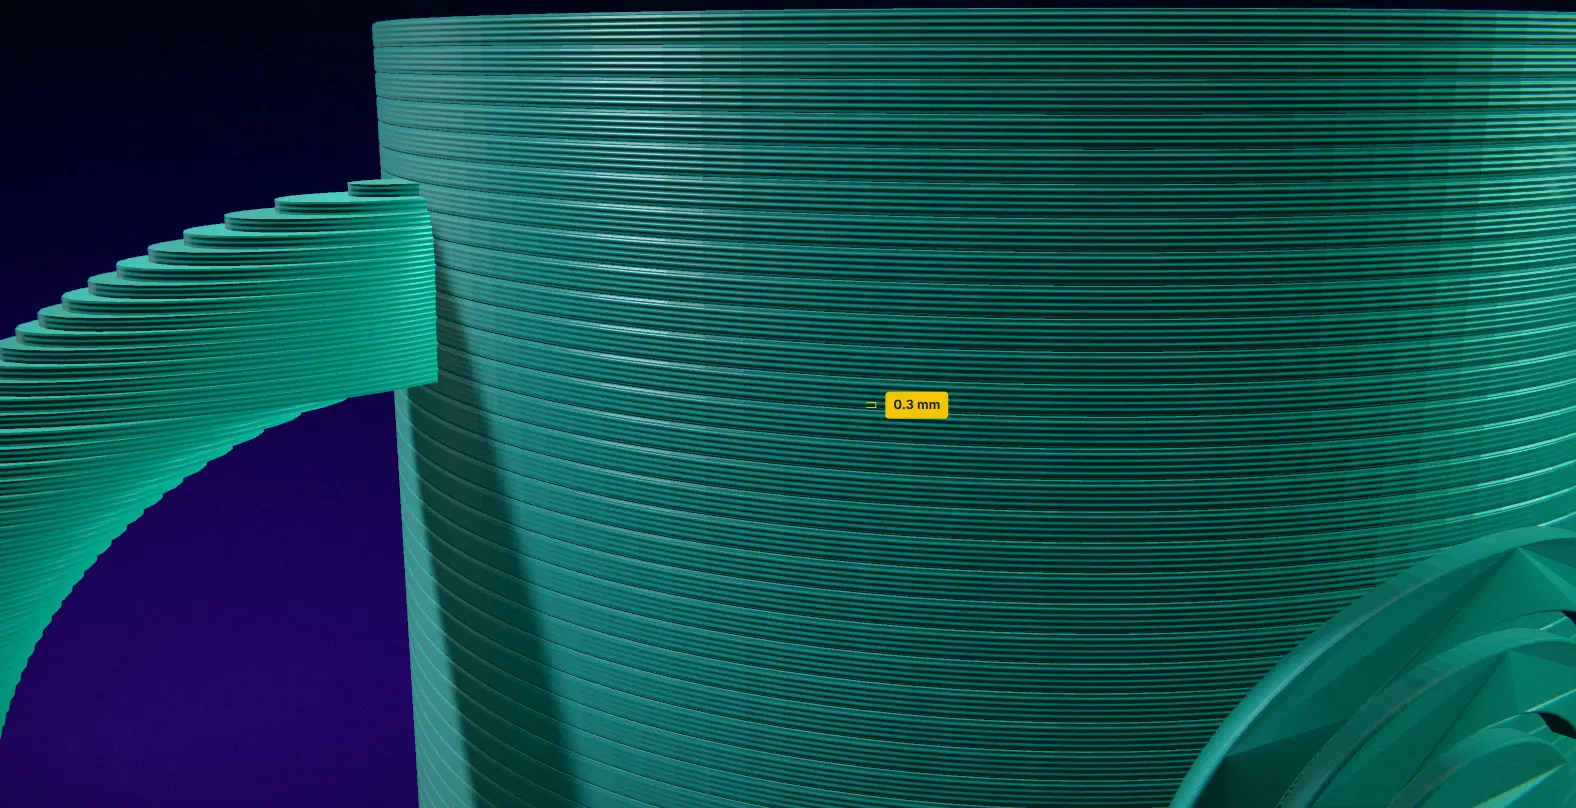
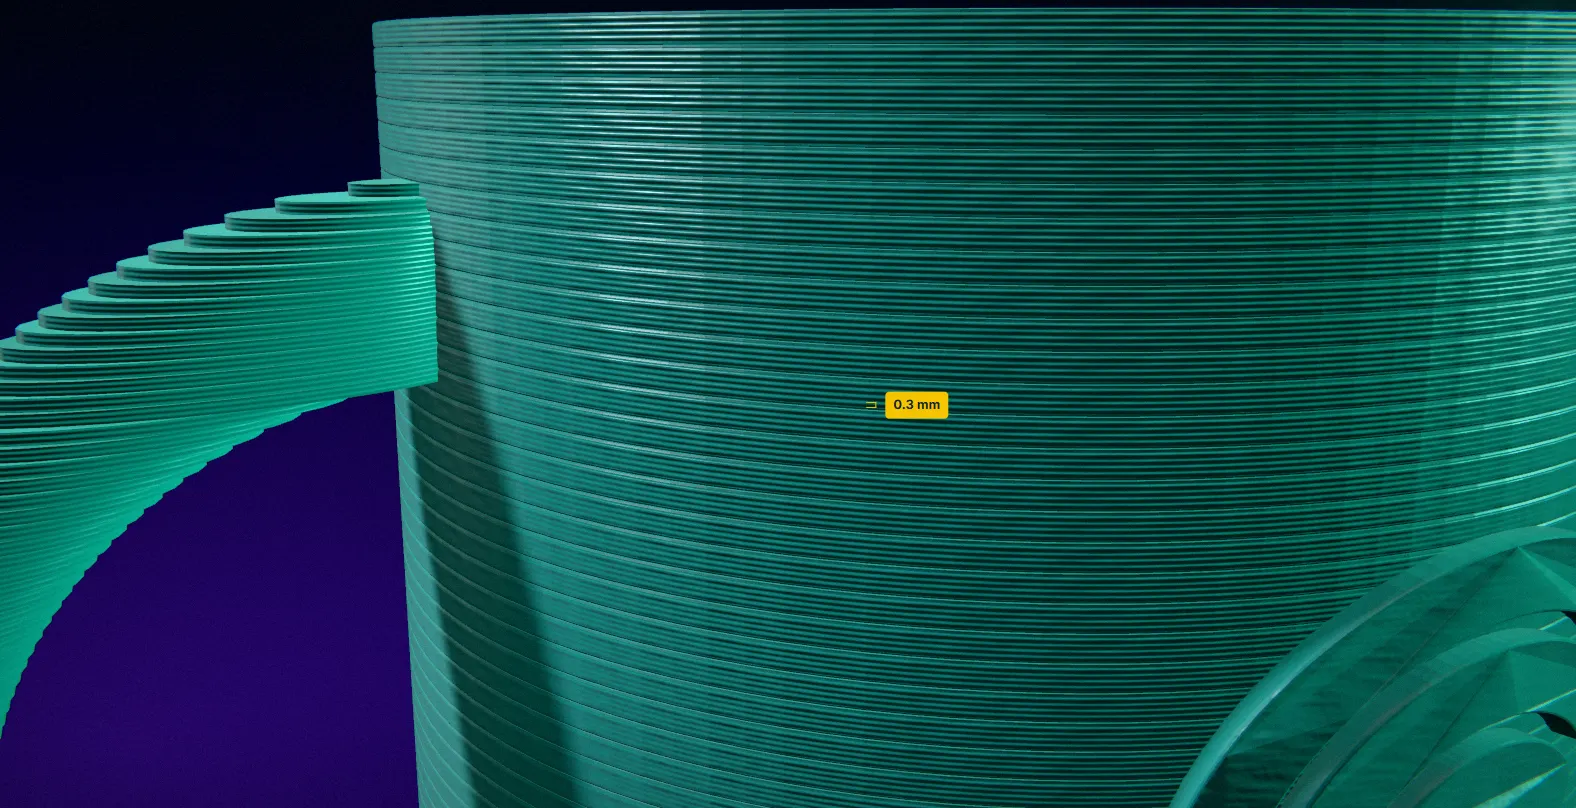
Give the mug the fine grain of a printed surface

Changed region(s): [[0.9327, 0.0, 1.0, 0.3094], [0.4042, 0.1547, 0.4353, 0.2475], [0.4042, 0.0619, 0.4353, 0.1238]]

diff --git a/src/scene/printJob.ts b/src/scene/printJob.ts
@@ -169,14 +169,68 @@ function addLooks(material: THREE.MeshStandardMaterial, uniforms: Record<"uTherm
   };
 }
 
+/**
+ * The printed plastic's surface, made in code: a fine grain that runs along
+ * the layers (the nozzle's path) with tiny specks across it, as a normal map
+ * and a roughness map, so the mug's sheen breaks up as a real print's does.
+ */
+function printedSurface() {
+  const N = 128;
+  const rand = (i: number) => {
+    const x = Math.sin(i * 12.9898) * 43758.5453;
+    return x - Math.floor(x);
+  };
+  const height = new Float32Array(N * N);
+  for (let y = 0; y < N; y++) {
+    // Along the layer the grain changes slowly; across it quickly.
+    const row = rand(y * 7.1) * 0.6;
+    for (let x = 0; x < N; x++) {
+      const along = Math.sin((x / N) * Math.PI * 2 * 6 + row * 9) * 0.25;
+      height[y * N + x] = row + along + rand(y * N + x) * 0.18;
+    }
+  }
+  const h = (x: number, y: number) => height[((y + N) % N) * N + ((x + N) % N)];
+  const make = (paint: (d: Uint8ClampedArray, i: number, x: number, y: number) => void) => {
+    const canvas = document.createElement("canvas");
+    canvas.width = canvas.height = N;
+    const c = canvas.getContext("2d")!;
+    const image = c.createImageData(N, N);
+    for (let y = 0; y < N; y++) for (let x = 0; x < N; x++) paint(image.data, (y * N + x) * 4, x, y);
+    c.putImageData(image, 0, 0);
+    const texture = new THREE.CanvasTexture(canvas);
+    texture.wrapS = texture.wrapT = THREE.RepeatWrapping;
+    // The wall's UVs are in cm: one tile every 2 cm.
+    texture.repeat.set(0.5, 0.5);
+    return texture;
+  };
+  const normalMap = make((d, i, x, y) => {
+    const dx = (h(x + 1, y) - h(x - 1, y)) * 1.6;
+    const dy = (h(x, y + 1) - h(x, y - 1)) * 1.6;
+    const len = Math.hypot(dx, dy, 1);
+    d[i] = (-dx / len) * 127 + 128;
+    d[i + 1] = (dy / len) * 127 + 128;
+    d[i + 2] = (1 / len) * 127 + 128;
+    d[i + 3] = 255;
+  });
+  const roughnessMap = make((d, i, x, y) => {
+    d[i] = d[i + 1] = d[i + 2] = 200 + (h(x, y) - 0.5) * 80;
+    d[i + 3] = 255;
+  });
+  return { normalMap, roughnessMap };
+}
+
 export function createPrintJob(bedSurface: THREE.Object3D, quality: QualityLevel): PrintJob {
   const object = new THREE.Group();
   bedSurface.add(object);
 
   // PETG: a satin plastic with a thin glossy skin and a soft sheen along its layers.
+  const surface = printedSurface();
   const filament = new THREE.MeshPhysicalMaterial({
     color: 0x2aa898,
-    roughness: 0.38,
+    normalMap: surface.normalMap,
+    normalScale: new THREE.Vector2(0.12, 0.12),
+    roughnessMap: surface.roughnessMap,
+    roughness: 0.48,
     metalness: 0,
     clearcoat: quality === 2 ? 0.45 : 0.25,
     clearcoatRoughness: 0.32,
@@ -380,6 +434,8 @@ export function createPrintJob(bedSurface: THREE.Object3D, quality: QualityLevel
     dispose() {
       [ring, disc, block, coffeeShape, logoShape, previewGeometry].forEach((g) => g.dispose());
       [filament, current, coffeeMaterial, logoMaterial, previewMaterial].forEach((mat) => mat.dispose());
+      surface.normalMap.dispose();
+      surface.roughnessMap.dispose();
       [walls, bases, handle].forEach((mesh) => mesh.dispose());
     },
   };

diff --git a/CHANGELOG.md b/CHANGELOG.md
@@ -7,6 +7,11 @@ of this repository: https://github.com/laroca00/3dcare/commits/main
 
 ## 2026-10-24
 
+### A printed surface on the mug
+- The mug's plastic has the fine grain of a real print: a texture that runs
+  along the layers with tiny specks across it, so its satin sheen breaks
+  up as a printed PETG mug's does. Made in code, no extra download.
+
 ### Skin on the hand
 - The hand that holds the mug has real skin detail: fine pores and creases
   that catch the light, slight colour variation and an uneven sheen, all
